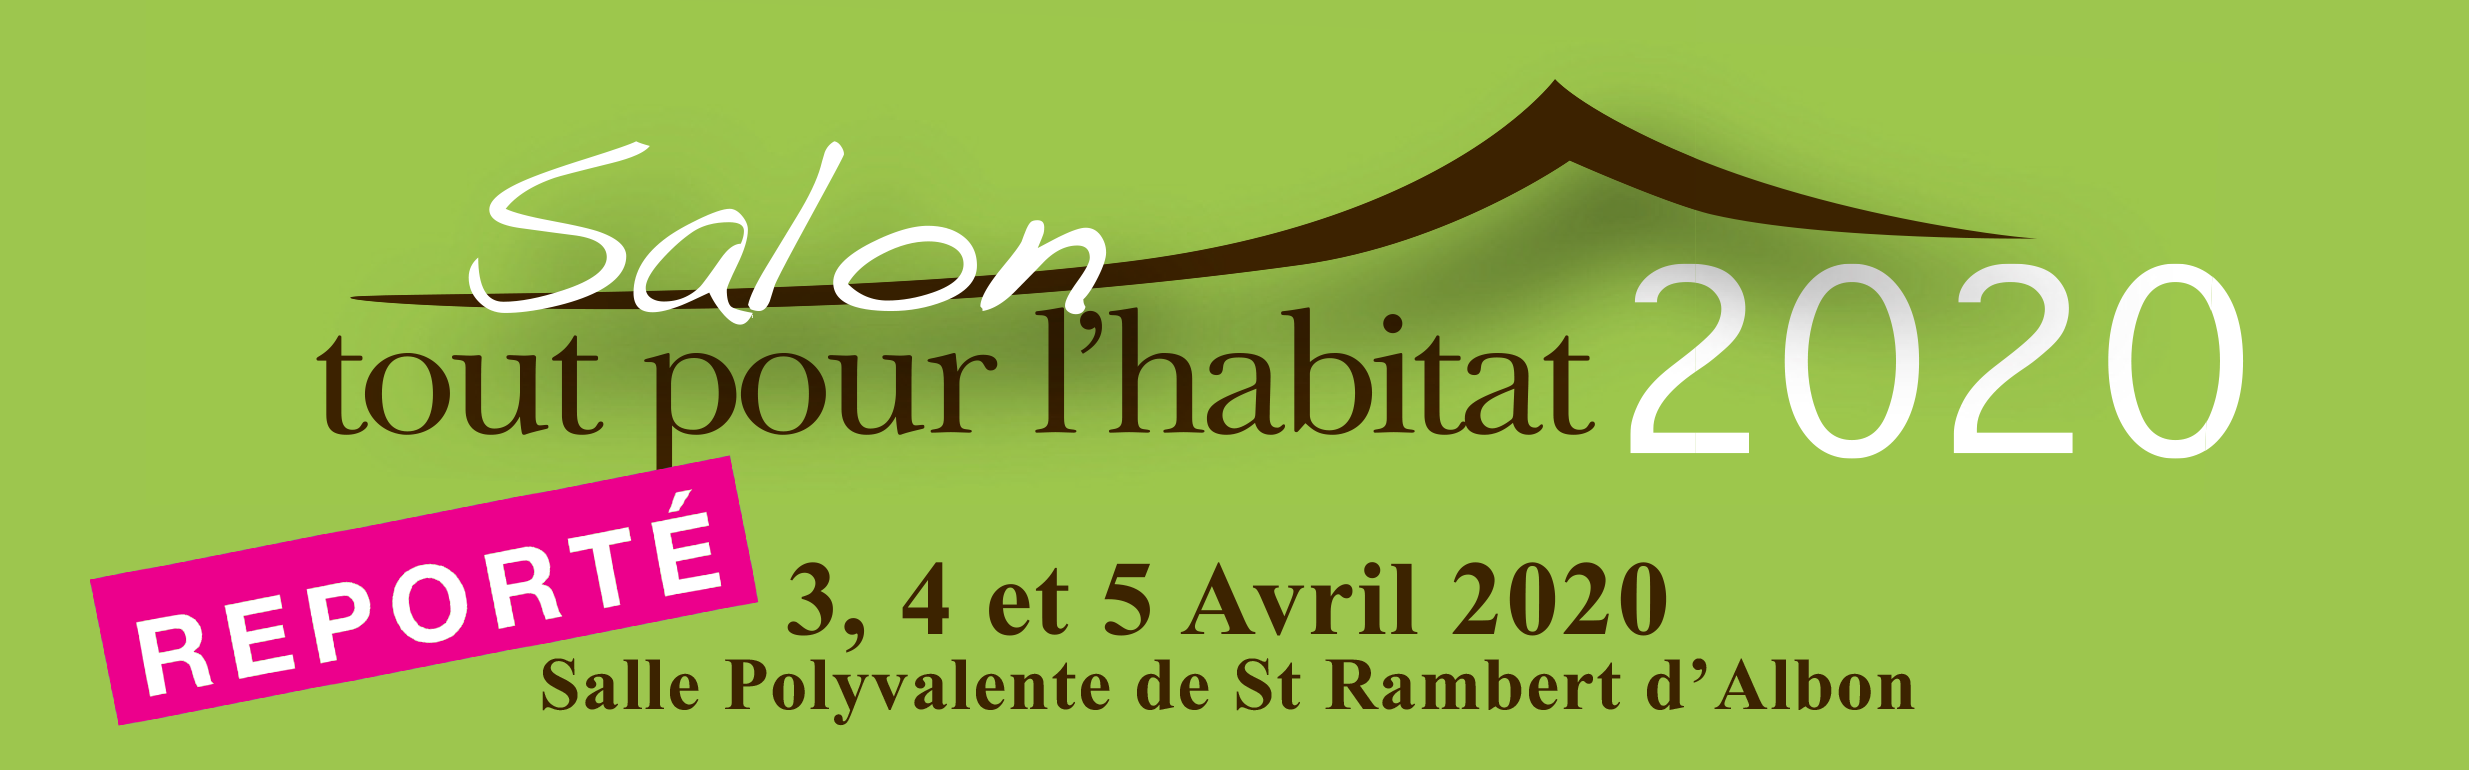
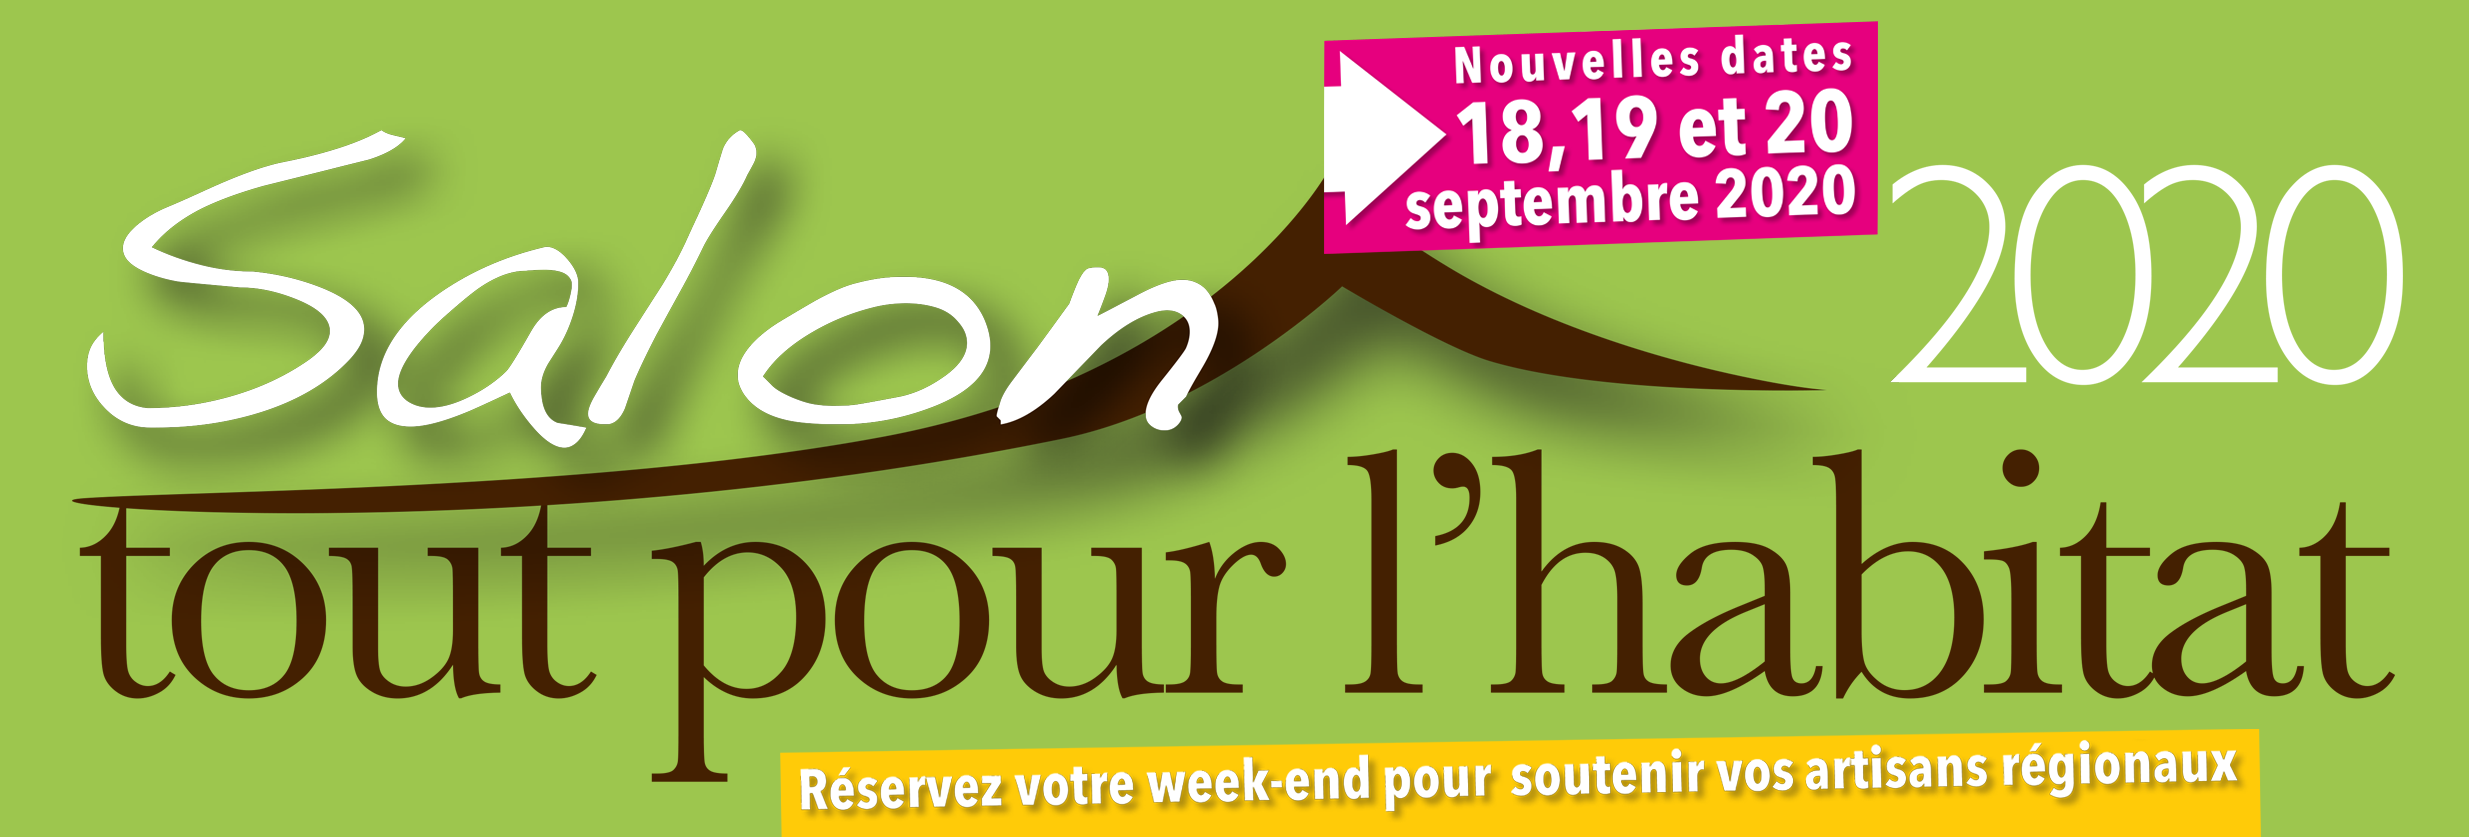
New version 2020 post covid 19

diff --git a/app/views/partials/partial-time-panel.html b/app/views/partials/partial-time-panel.html
@@ -4,7 +4,6 @@
       <h3 class="panel-title content-center">{{ 'TIME.TITLE' | translate }}</h3>
     </div>
     <div class="panel-body">
-      <img class="banniere-header" src="img/header/reporte.png" />
       <aside>
         <ul class="footer-ul">
           <li class="label-horaire label-info dashboard-horaire">
